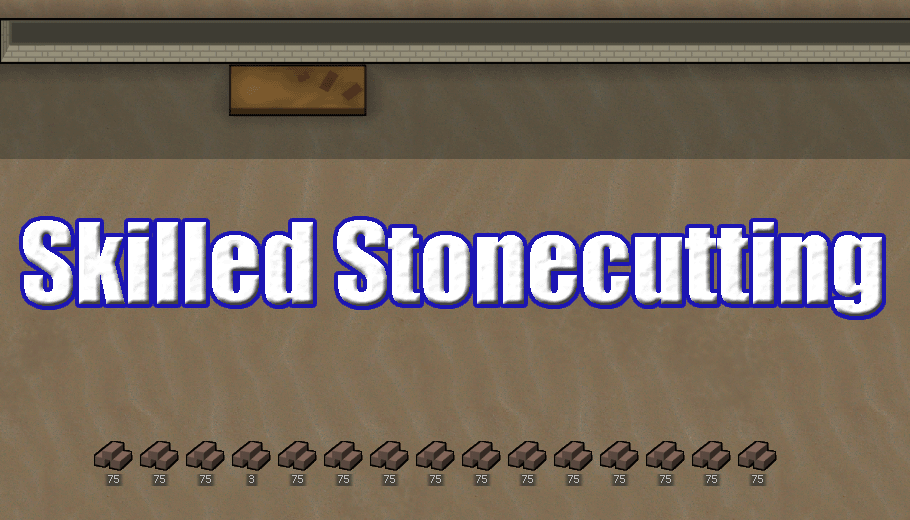
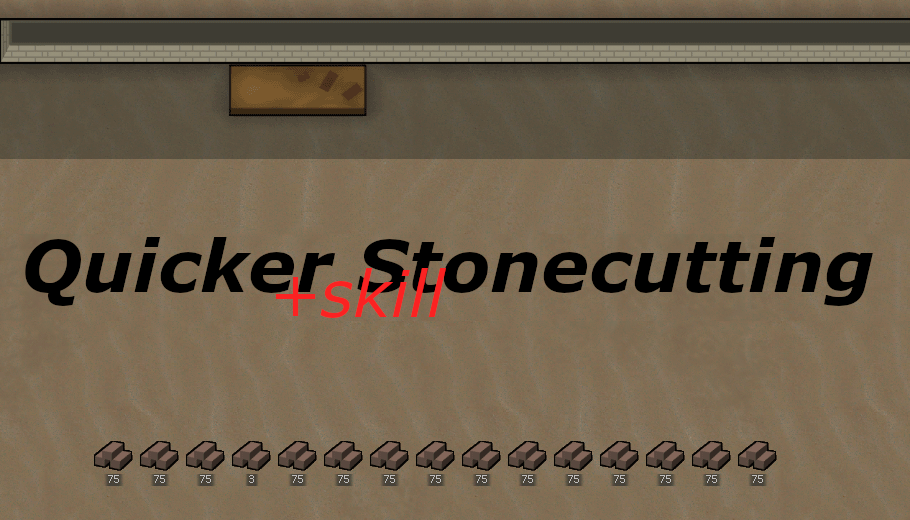
Metadata update
Not yet published, new personal image, marked down readme, name update and correct and original url

Changed region(s): [[0.0, 0.4, 0.9846, 0.6154]]

diff --git a/README.md b/README.md
@@ -1,6 +1,6 @@
 # Quicker +skill Stonecutting
-RimWorld mod
+*RimWorld mod*
 
 Makes skilled crafters create blocks more quickly. Also makes stonecutting give slight crafting skill increases.
 
-![mod image](https://i.imgur.com/mU018fK.png)
+![mod image](About/Preview.png)
